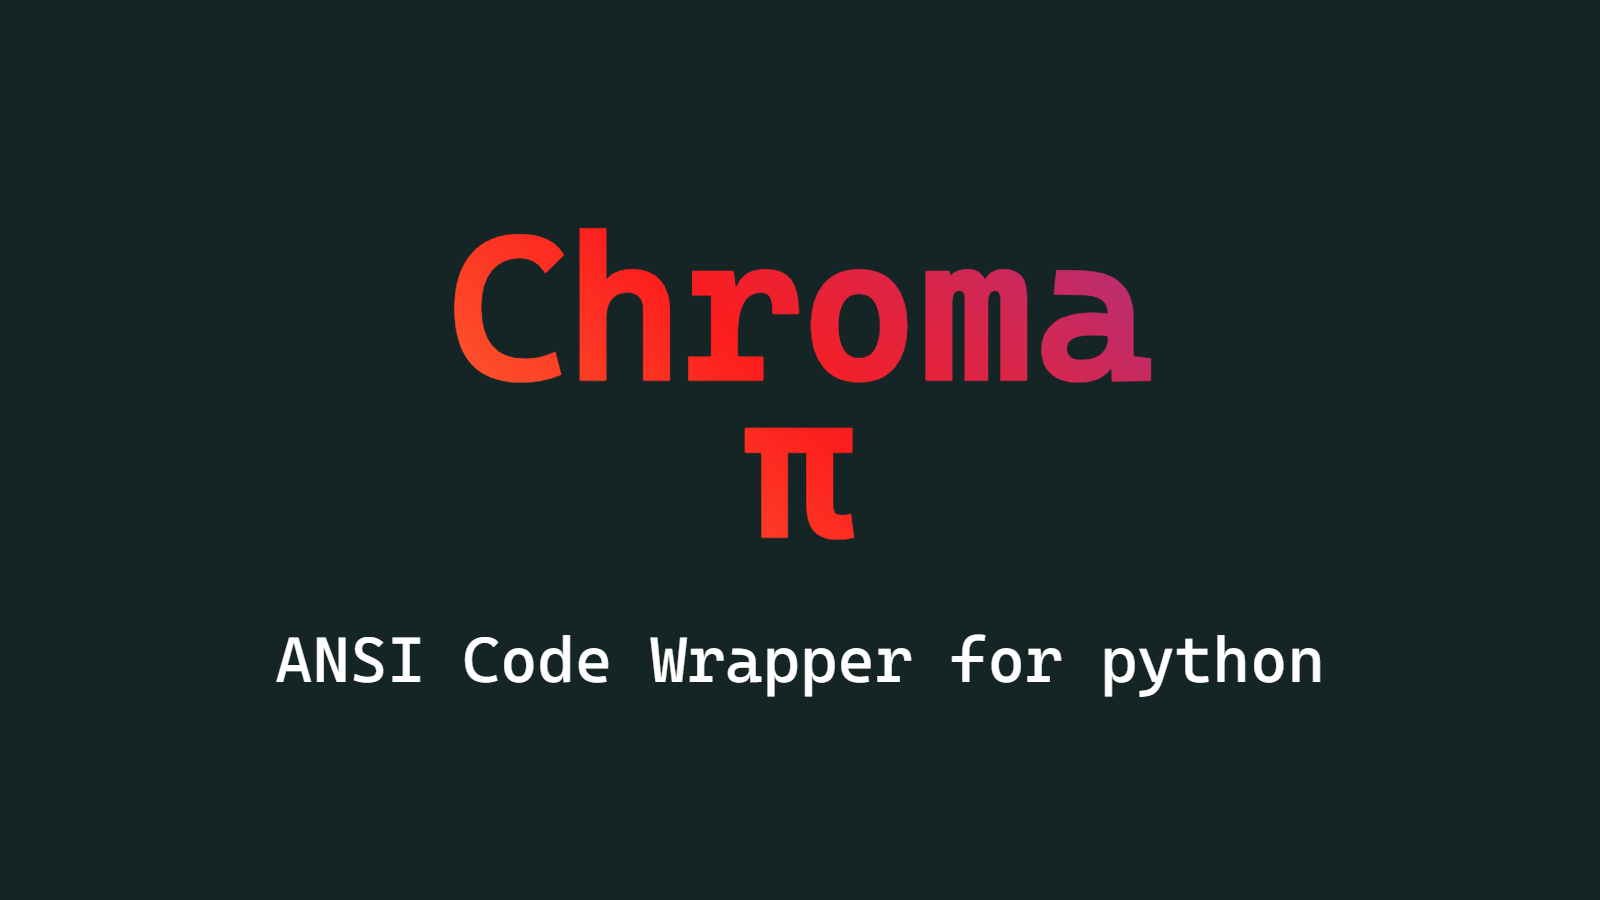
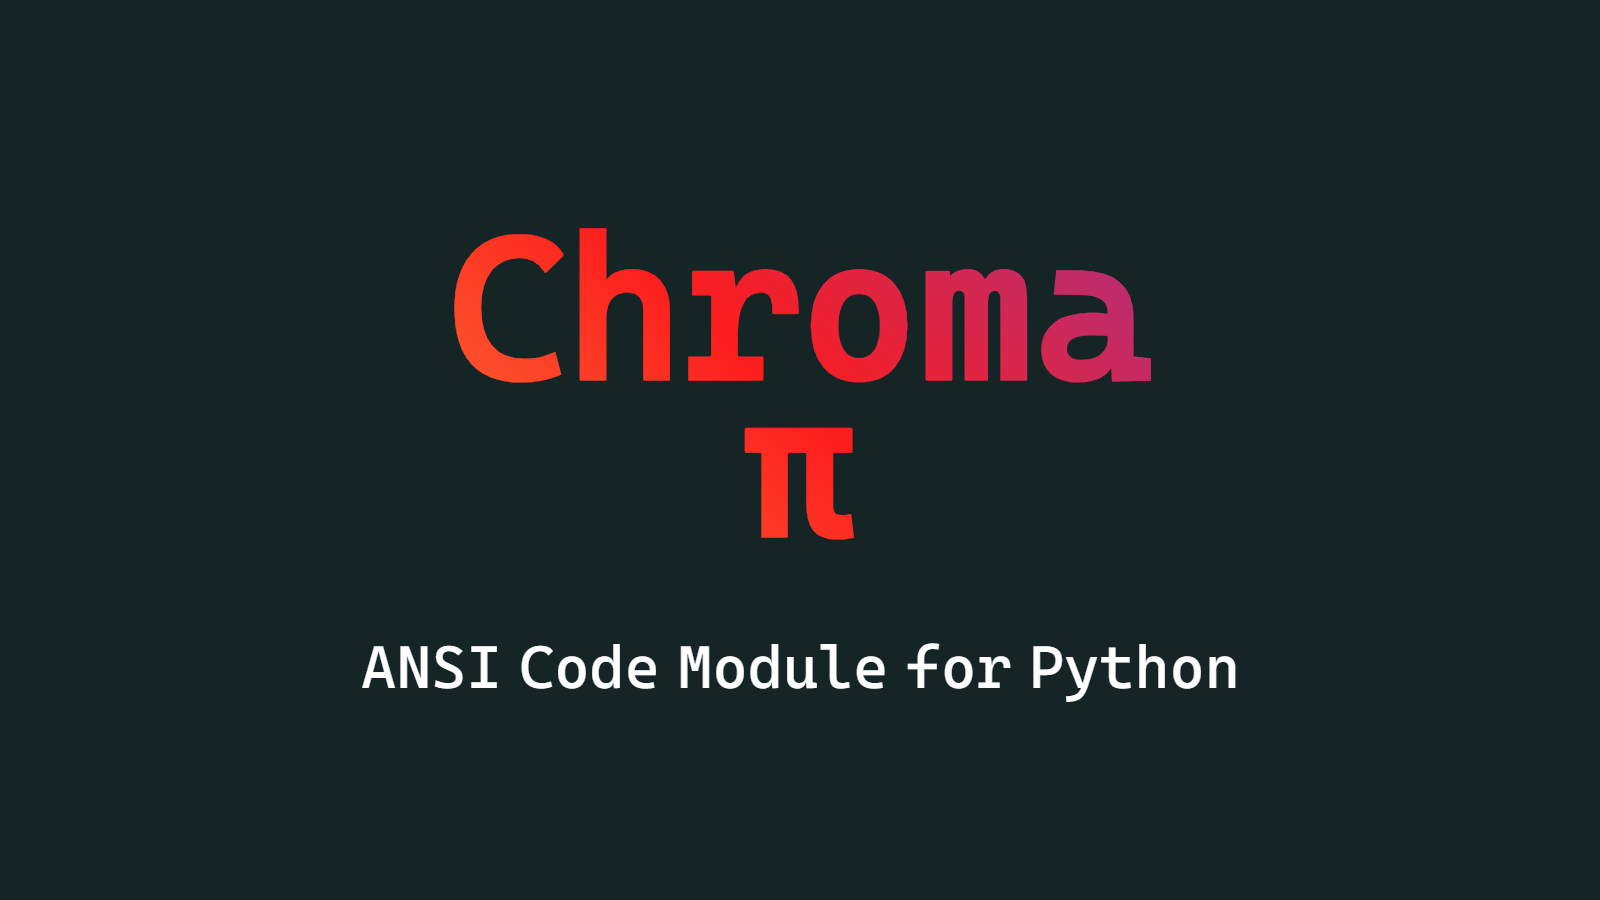
Changes, see desc
Changed incorrect cover image
Fixed text width

Changed region(s): [[0.1562, 0.6844, 0.8438, 0.7778]]

diff --git a/portfolio.html b/portfolio.html
@@ -24,7 +24,7 @@
         <i class="social fa-brands fa-github" onclick="window.open('https://github.com/WeeScottishPuffin', '_blank');"></i>
       </div>
     </div>
-    <div class="content projectContent">
+    <div class="content projectContent portfolioContent">
       <!-- <a href="/">«back</a> -->
       <h1 class="title">About me</h2>
       <div style="width:45px;" class="linkContainer">

diff --git a/Source/css/main.css b/Source/css/main.css
@@ -182,6 +182,10 @@ a {
   color: var(--colour-tertiary);
 }
 
+.portfolioContent p{
+  width: 100%;
+}
+
 .footer {
   height: calc(1.5ch + 14px);
   font-weight: 700;
